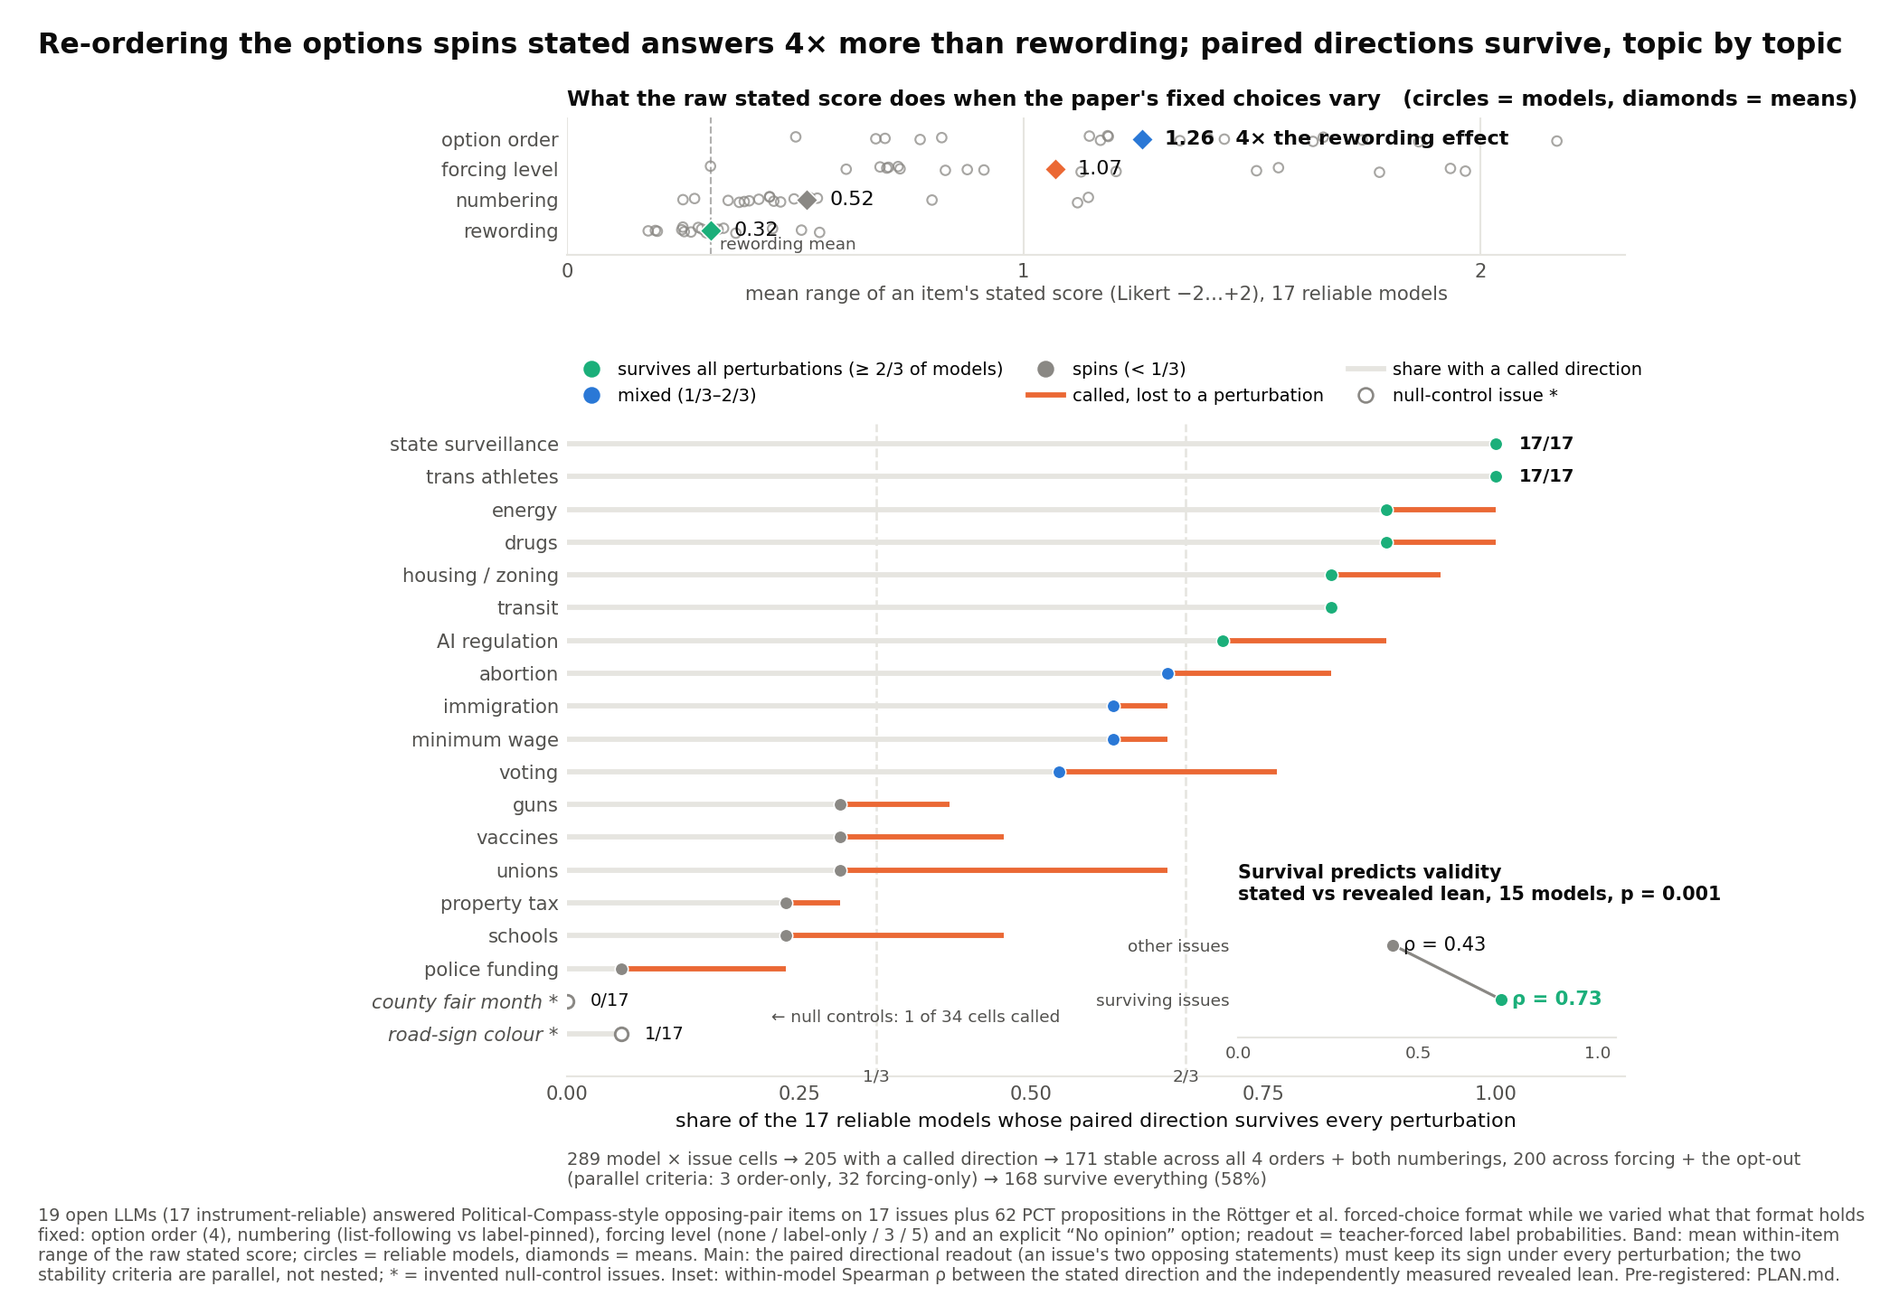
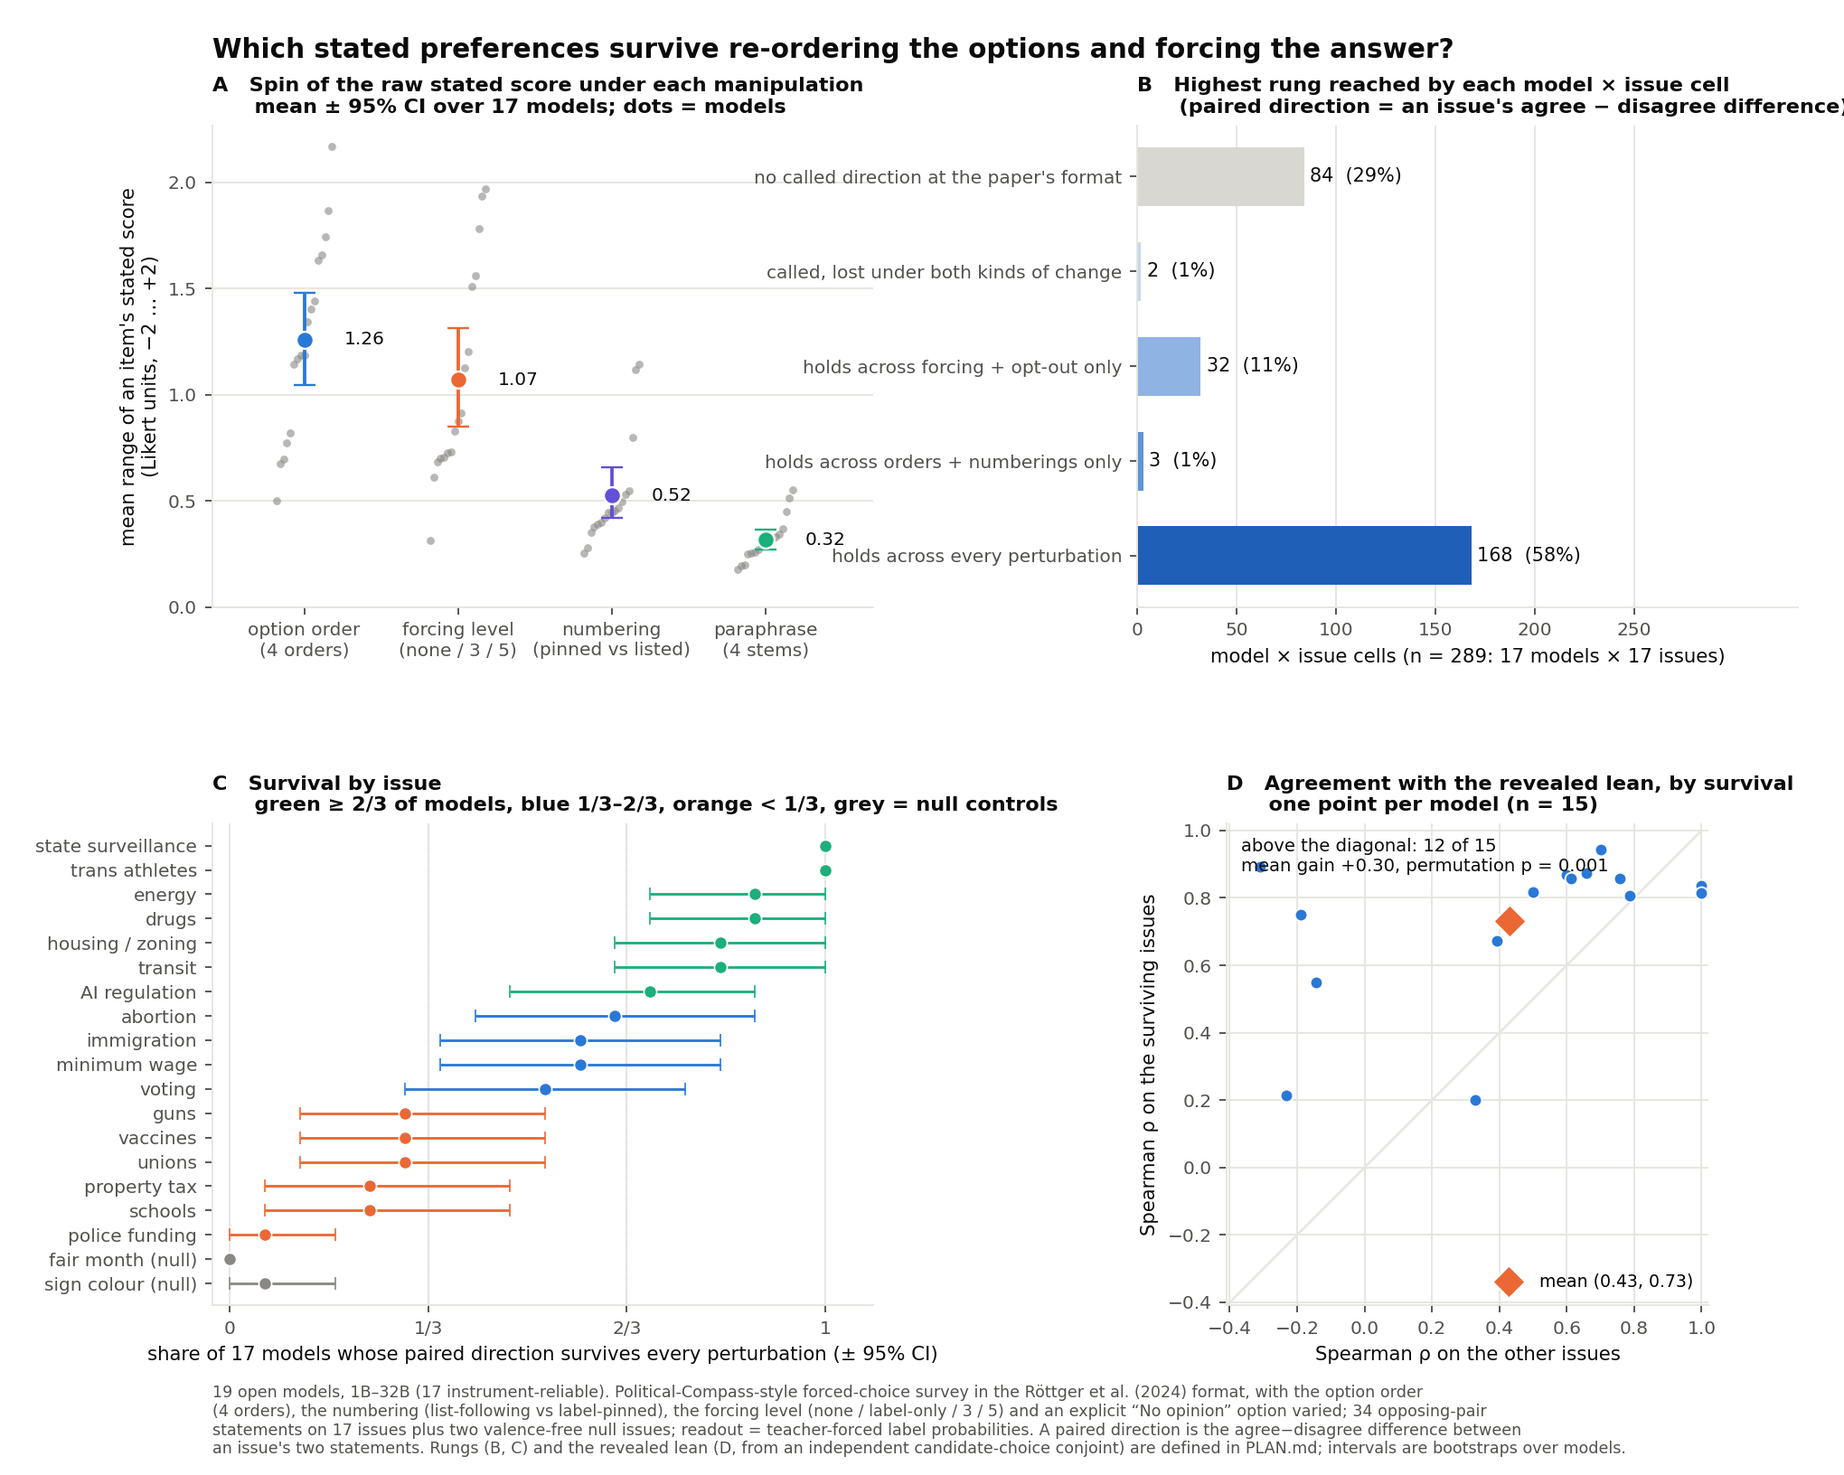
Summary figure: four equal standard panels with intervals

diff --git a/scripts/plot_orderforce.py b/scripts/plot_orderforce.py
@@ -1,9 +1,9 @@
-"""Summary figure for the order/forcing experiment (PLAN.md): a survival ledger.
+"""Summary figure for the order/forcing experiment (PLAN.md): four equal panels, one result each.
 
-Band A: how far each manipulation moves an item's raw stated score (per-model circles, mean diamonds).
-Main panel B: per issue, the share of reliable models whose paired direction is called (grey track), lost to a
-perturbation (orange) and survives everything (dot, coloured by class); null-control issues as open circles.
-Inset C: within-model Spearman rho between the stated direction and the revealed lean, surviving vs other issues.
+A  Spin budget: mean range of an item's raw stated score under each manipulation, 95% CI over models (bootstrap).
+B  Ladder: the model x issue cells partitioned by the highest rung reached (stacked bar, counts and shares).
+C  Per-issue survival: share of reliable models whose paired direction survives every perturbation, 95% CI over models.
+D  Validity: per model, Spearman rho between stated direction and revealed lean on surviving vs other issues.
 Reads results/orderforce.json (standalone) or experiments/pct/analysis/orderforce.json (parent repo).
 Usage: python3 scripts/plot_orderforce.py
 """
@@ -15,111 +15,115 @@ import numpy as np
 import matplotlib
 matplotlib.use("Agg")
 import matplotlib.pyplot as plt
-from matplotlib.lines import Line2D
+from matplotlib.patches import Patch
 
 ROOT = Path(__file__).resolve().parent.parent
 SRC = ROOT / "results" / "orderforce.json" if (ROOT / "results" / "orderforce.json").exists() else ROOT / "experiments" / "pct" / "analysis" / "orderforce.json"
 OUT = ROOT / "results" / "orderforce_figure.png" if (ROOT / "results").exists() else ROOT / "experiments" / "orderforce_figure.png"
 INK, MUTED, GRID, SURF = "#0b0b0b", "#52514e", "#e6e5e0", "#ffffff"
-BLUE, ORANGE, GREEN, GREY = "#2a78d6", "#eb6834", "#1baf7a", "#8a8884"
-CLASS_COL = {"hard survivor": GREEN, "mixed": BLUE, "spinner": GREY}
+BLUE, ORANGE, GREEN, GREY, PURPLE = "#2a78d6", "#eb6834", "#1baf7a", "#8a8884", "#6250d6"
 LAB = {"state_surveillance": "state surveillance", "trans_sports": "trans athletes", "housing_zoning": "housing / zoning", "agi_limitations": "AI regulation", "minimum_wage": "minimum wage",
-       "police_funding": "police funding", "property_tax": "property tax", "fair_month": "county fair month *", "sign_color": "road-sign colour *"}
+       "police_funding": "police funding", "property_tax": "property tax", "fair_month": "fair month (null)", "sign_color": "sign colour (null)"}
+NULL = ["fair_month", "sign_color"]
+
+
+def boot_ci(vals, reps=4000, seed=3):
+    rng = np.random.default_rng(seed)
+    v = np.asarray(vals, dtype=float)
+    b = np.sort([rng.choice(v, len(v)).mean() for _ in range(reps)])
+    return v.mean(), b[int(0.025 * reps)], b[int(0.975 * reps) - 1]
+
+
+def style(ax):
+    for s in ("top", "right"):
+        ax.spines[s].set_visible(False)
+    for s in ("left", "bottom"):
+        ax.spines[s].set_color(GRID)
+    ax.tick_params(colors=MUTED, labelsize=8.5)
 
 
 def main():
     R = json.loads(SRC.read_text())
     models = R["models"]; rel = sorted(t for t in models if not models[t]["instrument_unreliable"])
-    AT, P, J = R["axis_table"], R["predictions"], R["join"]
-    NULL = ["fair_month", "sign_color"]; POL = [a for a in AT if a not in NULL]
-    counts = {k: 0 for k in ("called", "+order", "+forcing", "survives all", "refusal-gated", "not called", "saturated")}
+    AT, P = R["axis_table"], R["predictions"]
+    POL = [a for a in AT if a not in NULL]
+    a6 = P["A6_permutation"]
+    fig, axs = plt.subplots(2, 2, figsize=(12.0, 9.6), facecolor=SURF)
+    fig.subplots_adjust(left=0.115, right=0.975, top=0.915, bottom=0.115, wspace=0.40, hspace=0.45)
+    # ---- A spin budget
+    ax = axs[0][0]
+    keys = [("order_F3", "option order\n(4 orders)", BLUE), ("forcing", "forcing level\n(none / 3 / 5)", ORANGE), ("numbering", "numbering\n(pinned vs listed)", PURPLE), ("paraphrase_4", "paraphrase\n(4 stems)", GREEN)]
+    for i, (k, lab, col) in enumerate(keys):
+        vals = [models[t]["spin"][k] for t in rel if models[t]["spin"].get(k) is not None]
+        m, lo, hi = boot_ci(vals)
+        ax.scatter([i + x for x in np.linspace(-0.18, 0.18, len(vals))], sorted(vals), s=14, color=GREY, alpha=0.6, lw=0, zorder=2)
+        ax.errorbar([i], [m], yerr=[[m - lo], [hi - m]], fmt="o", color=col, ms=8, capsize=5, lw=1.6, mec=SURF, mew=1, zorder=4)
+        ax.text(i + 0.26, m, f"{m:.2f}", va="center", fontsize=8.5, color=INK)
+    ax.set_xticks(range(len(keys))); ax.set_xticklabels([k[1] for k in keys], fontsize=8.5)
+    ax.set_xlim(-0.6, len(keys) - 0.3); ax.set_ylim(0, None)
+    ax.set_ylabel("mean range of an item's stated score\n(Likert units, −2 … +2)", fontsize=9, color=INK)
+    ax.set_title(f"A   Spin of the raw stated score under each manipulation\n      mean ± 95% CI over {len(rel)} models; dots = models", fontsize=9.5, loc="left", fontweight="bold", color=INK)
+    ax.yaxis.grid(True, color=GRID); ax.set_axisbelow(True)
+    # ---- B ladder partition
+    ax = axs[0][1]
+    counts = {k: 0 for k in ("not called", "refusal-gated", "called", "+order", "+forcing", "survives all", "saturated")}
     for t in rel:
         for a in POL:
             r = models[t]["axes"].get(a, {}).get("rung")
             if r:
                 counts[r] += 1
-    n_cells = sum(counts.values()); called = counts["called"] + counts["+order"] + counts["+forcing"] + counts["survives all"]
-    n_order, n_forc, n_all = counts["+order"] + counts["survives all"], counts["+forcing"] + counts["survives all"], counts["survives all"]
-    plt.rcParams["font.family"] = "DejaVu Sans"
-    fig = plt.figure(figsize=(11.0, 7.6), facecolor=SURF)
-    # ---------------- band A
-    axA = fig.add_axes([0.30, 0.805, 0.56, 0.105])
-    rows = [("order_F3", "option order", BLUE), ("forcing", "forcing level", ORANGE), ("numbering", "numbering", GREY), ("paraphrase_4", "rewording", GREEN)]
-    jit = np.linspace(-0.10, 0.10, len(rel))
-    means = {}
-    for i, (k, lab, col) in enumerate(rows):
-        y = len(rows) - 1 - i
-        vals = [models[t]["spin"].get(k) for t in rel]
-        vals = [v for v in vals if v is not None]
-        axA.scatter(vals, [y + j for j in jit[:len(vals)]], s=16, facecolors="none", edgecolors=GREY, lw=0.8, alpha=0.75, zorder=2)
-        m = st.mean(vals); means[k] = m
-        axA.scatter([m], [y], marker="D", s=42, color=col, zorder=4, ec=SURF, lw=0.6)
-        axA.text(m + 0.05, y, f"{m:.2f}" + ("   %.0f× the rewording effect" % (m / means.get("paraphrase_4", m)) if k == "order_F3" and "paraphrase_4" in means else ""), va="center", fontsize=8.5, color=INK, fontweight="bold" if k == "order_F3" else "normal")
-    # order row is drawn first; recompute its multiplier label after the rewording mean is known
-    axA.texts[0].set_text(f"{means['order_F3']:.2f}   {means['order_F3'] / means['paraphrase_4']:.0f}× the rewording effect")
-    axA.axvline(means["paraphrase_4"], color=MUTED, lw=0.8, ls="--", alpha=0.45, zorder=1)
-    axA.text(means["paraphrase_4"] + 0.02, -0.5, "rewording mean", fontsize=7.0, color=MUTED, ha="left", va="center")
-    axA.set_yticks(range(len(rows))); axA.set_yticklabels([r[1] for r in reversed(rows)], fontsize=8.5, color=MUTED)
-    axA.set_xlim(0, max(2.0, max(models[t]["spin"]["order_F3"] for t in rel) + 0.15)); axA.set_ylim(-0.8, len(rows) - 0.3)
-    axA.set_xticks([0, 1, 2]); axA.tick_params(colors=MUTED, labelsize=8, length=0)
-    axA.xaxis.grid(True, color=GRID, lw=0.8); axA.set_axisbelow(True)
-    axA.set_xlabel(f"mean range of an item's stated score (Likert −2…+2), {len(rel)} reliable models", fontsize=8, color=MUTED, labelpad=2)
-    axA.set_title("What the raw stated score does when the paper's fixed choices vary   (circles = models, diamonds = means)", fontsize=8.8, loc="left", fontweight="bold", color=INK, pad=5)
-    # ---------------- main panel B
-    axB = fig.add_axes([0.30, 0.175, 0.56, 0.50])
+    n = sum(counts.values())
+    parts = [("no called direction at the paper's format", counts["not called"] + counts["refusal-gated"] + counts["saturated"], "#d9d7d2"),
+             ("called, lost under both kinds of change", counts["called"], "#c9d7ee"), ("holds across forcing + opt-out only", counts["+forcing"], "#8fb3e3"),
+             ("holds across orders + numberings only", counts["+order"], "#5f94d6"), ("holds across every perturbation", counts["survives all"], "#1f5fb8")]
+    for i, (lab, c, col) in enumerate(parts):
+        ax.barh(i, c, 0.62, color=col)
+        ax.text(c + 3, i, f"{c}  ({100 * c / n:.0f}%)", va="center", fontsize=8.8, color=INK)
+    ax.set_yticks(range(len(parts))); ax.set_yticklabels([p[0] for p in parts], fontsize=8.5)
+    ax.invert_yaxis(); ax.set_xlim(0, n * 1.15); ax.set_xticks([0, 50, 100, 150, 200, 250])
+    ax.set_xlabel(f"model × issue cells (n = {n}: {len(rel)} models × 17 issues)", fontsize=9, color=INK)
+    ax.set_title("B   Highest rung reached by each model × issue cell\n      (paired direction = an issue's agree − disagree difference)", fontsize=9.5, loc="left", fontweight="bold", color=INK)
+    ax.xaxis.grid(True, color=GRID); ax.set_axisbelow(True)
+    # ---- C per-issue survival with CI over models
+    ax = axs[1][0]
     order = sorted(POL, key=lambda a: -(AT[a]["R3_frac"] or 0)) + NULL
-    for y, a in enumerate(reversed(order)):
-        r3, cf = AT[a]["R3_frac"] or 0.0, AT[a]["called_frac"] or 0.0
-        axB.plot([0, cf], [y, y], color=GRID, lw=2.2, solid_capstyle="butt", zorder=1)
-        if cf > r3:
-            axB.plot([r3, cf], [y, y], color=ORANGE, lw=2.2, solid_capstyle="butt", zorder=2)
-        if a in NULL:
-            axB.scatter([r3], [y], s=30, facecolors=SURF, edgecolors=GREY, lw=1.1, zorder=4)
-        else:
-            axB.scatter([r3], [y], s=30, color=CLASS_COL.get(AT[a]["class"], GREY), ec=SURF, lw=0.6, zorder=4)
-        if r3 >= 0.999 or a in NULL:
-            axB.text(max(cf, r3) + 0.025, y, f"{AT[a]['survives all']}/{AT[a]['n']}", va="center", fontsize=7.4, color=INK, fontweight="bold" if r3 >= 0.999 else "normal")
-    axB.set_yticks(range(len(order))); axB.set_yticklabels([LAB.get(a, a.replace("_", " ")) for a in reversed(order)], fontsize=8.3)
-    for lab, a in zip(axB.get_yticklabels(), reversed(order)):
-        if a in NULL:
-            lab.set_color(GREY); lab.set_style("italic")
-    for x in (1 / 3, 2 / 3):
-        axB.axvline(x, color=GRID, lw=1, ls="--", zorder=0)
-        axB.text(x, -1.05, "1/3" if x < 0.5 else "2/3", fontsize=7, color=MUTED, ha="center", va="top")
-    axB.set_xlim(0, 1.14); axB.set_ylim(-1.3, len(order) - 0.4)
-    axB.set_xticks([0, 0.25, 0.5, 0.75, 1]); axB.tick_params(colors=MUTED, labelsize=8, length=0)
-    axB.set_xlabel(f"share of the {len(rel)} reliable models whose paired direction survives every perturbation", fontsize=8.5, color=INK)
-    axB.text(0.22, 0.5, f"← null controls: {R['null_called']} of {2 * len(rel)} cells called", fontsize=7, color=MUTED, ha="left", va="center")
-    axB.text(0.0, -0.115, f"{n_cells} model × issue cells → {called} with a called direction → {n_order} stable across all 4 orders + both numberings, {n_forc} across forcing + the opt-out\n"
-             f"(parallel criteria: {n_order - n_all} order-only, {n_forc - n_all} forcing-only) → {n_all} survive everything ({100 * n_all / n_cells:.0f}%)",
-             transform=axB.transAxes, fontsize=7.4, color=MUTED, va="top")
-    # ---------------- inset C
-    axC = fig.add_axes([0.655, 0.205, 0.20, 0.10])
-    a6 = P["A6_permutation"]
-    ms, mr = a6["mean_rho_surviving"], a6["mean_rho_rest"]
-    axC.set_facecolor(SURF)
-    axC.plot([mr, ms], [1, 0], color=GREY, lw=1.2, zorder=1)
-    axC.scatter([ms], [0], s=30, color=GREEN, zorder=3, ec=SURF, lw=0.5); axC.scatter([mr], [1], s=30, color=GREY, zorder=3, ec=SURF, lw=0.5)
-    axC.text(ms + 0.03, 0, f"ρ = {ms:.2f}", va="center", fontsize=8, color=GREEN, fontweight="bold"); axC.text(mr + 0.03, 1, f"ρ = {mr:.2f}", va="center", fontsize=8, color=INK)
-    axC.set_yticks([0, 1]); axC.set_yticklabels(["surviving issues", "other issues"], fontsize=7.5, color=MUTED)
-    axC.set_xlim(0, 1.05); axC.set_ylim(-0.7, 1.7); axC.set_xticks([0, 0.5, 1]); axC.tick_params(colors=MUTED, labelsize=7, length=0)
-    axC.set_title(f"Survival predicts validity\nstated vs revealed lean, {a6['models']} models, p = {a6['p_one_sided']:.3f}", fontsize=7.8, fontweight="bold", color=INK, loc="left", pad=3)
-    for a_ in (axA, axB, axC):
-        for s_ in ("top", "right", "left"):
-            a_.spines[s_].set_visible(False)
-        a_.spines["bottom"].set_color(GRID)
-    # ---------------- legend, title, caption
-    handles = [Line2D([], [], marker="o", color=GREEN, lw=0, ms=6, label="survives all perturbations (≥ 2/3 of models)"), Line2D([], [], marker="o", color=BLUE, lw=0, ms=6, label="mixed (1/3–2/3)"),
-               Line2D([], [], marker="o", color=GREY, lw=0, ms=6, label="spins (< 1/3)"), Line2D([], [], color=ORANGE, lw=2.2, label="called, lost to a perturbation"),
-               Line2D([], [], color=GRID, lw=2.2, label="share with a called direction"), Line2D([], [], marker="o", mfc=SURF, mec=GREY, color=SURF, lw=0, ms=6, label="null-control issue *")]
-    fig.legend(handles=handles, loc="upper left", bbox_to_anchor=(0.295, 0.735), ncol=3, frameon=False, fontsize=7.4, handletextpad=0.5, columnspacing=1.4)
-    fig.text(0.02, 0.965, f"Re-ordering the options spins stated answers {means['order_F3'] / means['paraphrase_4']:.0f}× more than rewording; paired directions survive, topic by topic", fontsize=12, fontweight="bold", color=INK, va="center")
-    fig.text(0.02, 0.075, f"{len(models)} open LLMs ({len(rel)} instrument-reliable) answered Political-Compass-style opposing-pair items on 17 issues plus 62 PCT propositions in the Röttger et al. forced-choice format while we varied what that format holds\n"
-             "fixed: option order (4), numbering (list-following vs label-pinned), forcing level (none / label-only / 3 / 5) and an explicit “No opinion” option; readout = teacher-forced label probabilities. Band: mean within-item\n"
-             "range of the raw stated score; circles = reliable models, diamonds = means. Main: the paired directional readout (an issue's two opposing statements) must keep its sign under every perturbation; the two\n"
-             "stability criteria are parallel, not nested; * = invented null-control issues. Inset: within-model Spearman ρ between the stated direction and the independently measured revealed lean. Pre-registered: PLAN.md.",
-             fontsize=7.2, color=MUTED, va="top")
-    fig.savefig(OUT, dpi=190, facecolor=SURF)
+    for y, a in enumerate(order):
+        surv = [1.0 if models[t]["axes"].get(a, {}).get("rung") == "survives all" else 0.0 for t in rel if a in models[t]["axes"]]
+        m, lo, hi = boot_ci(surv)
+        col = GREY if a in NULL else GREEN if AT[a]["class"] == "hard survivor" else BLUE if AT[a]["class"] == "mixed" else ORANGE
+        ax.errorbar([m], [y], xerr=[[m - lo], [hi - m]], fmt="o", color=col, ms=6, capsize=3, lw=1.2, mec=SURF, mew=0.7, zorder=3)
+    ax.set_yticks(range(len(order))); ax.set_yticklabels([LAB.get(a, a.replace("_", " ")) for a in order], fontsize=8.5)
+    ax.invert_yaxis()
+    for x, lab in ((1 / 3, "1/3"), (2 / 3, "2/3")):
+        ax.axvline(x, color=GRID, lw=1, ls="--", zorder=0)
+    ax.set_xlim(-0.03, 1.08); ax.set_xticks([0, 1 / 3, 2 / 3, 1]); ax.set_xticklabels(["0", "1/3", "2/3", "1"])
+    ax.set_xlabel(f"share of {len(rel)} models whose paired direction survives every perturbation (± 95% CI)", fontsize=9, color=INK)
+    ax.set_title("C   Survival by issue\n      green ≥ 2/3 of models, blue 1/3–2/3, orange < 1/3, grey = null controls", fontsize=9.5, loc="left", fontweight="bold", color=INK)
+    ax.xaxis.grid(True, color=GRID); ax.set_axisbelow(True)
+    # ---- D validity scatter
+    ax = axs[1][1]
+    J = R["join"]
+    pts = [(j["rho_rest"], j["rho_surviving"], t) for t, j in J.items() if t in rel and j["rho_surviving"] is not None and j["rho_rest"] is not None and j["n_surviving"] >= 3 and j["n"] - j["n_surviving"] >= 3]
+    ax.plot([-1, 1], [-1, 1], color=GRID, lw=1, zorder=0)
+    ax.scatter([p[0] for p in pts], [p[1] for p in pts], s=34, color=BLUE, ec=SURF, lw=0.8, zorder=3)
+    ax.scatter([a6["mean_rho_rest"]], [a6["mean_rho_surviving"]], s=120, marker="D", color=ORANGE, ec=SURF, lw=1, zorder=4, label=f"mean ({a6['mean_rho_rest']:.2f}, {a6['mean_rho_surviving']:.2f})")
+    lo_, hi_ = min(min(p[0] for p in pts), min(p[1] for p in pts)) - 0.1, 1.02
+    ax.set_xlim(lo_, hi_); ax.set_ylim(lo_, hi_); ax.set_aspect("equal")
+    ax.set_xlabel("Spearman ρ on the other issues", fontsize=9, color=INK); ax.set_ylabel("Spearman ρ on the surviving issues", fontsize=9, color=INK)
+    ax.set_title(f"D   Agreement with the revealed lean, by survival\n      one point per model (n = {len(pts)})", fontsize=9.5, loc="left", fontweight="bold", color=INK)
+    ax.text(0.03, 0.97, f"above the diagonal: {sum(p[1] > p[0] for p in pts)} of {len(pts)}\nmean gain {a6['mean_gain_rho']:+.2f}, permutation p = {a6['p_one_sided']:.3f}", transform=ax.transAxes, fontsize=8.3, color=INK, va="top")
+    ax.legend(frameon=False, fontsize=8, loc="lower right")
+    ax.xaxis.grid(True, color=GRID); ax.yaxis.grid(True, color=GRID); ax.set_axisbelow(True)
+    for row in axs:
+        for a_ in row:
+            style(a_)
+    fig.suptitle("Which stated preferences survive re-ordering the options and forcing the answer?", fontsize=12.5, x=0.115, y=0.975, ha="left", fontweight="bold", color=INK)
+    fig.text(0.115, 0.012, f"{len(models)} open models, 1B–32B ({len(rel)} instrument-reliable). Political-Compass-style forced-choice survey in the Röttger et al. (2024) format, with the option order\n"
+             "(4 orders), the numbering (list-following vs label-pinned), the forcing level (none / label-only / 3 / 5) and an explicit “No opinion” option varied; 34 opposing-pair\n"
+             "statements on 17 issues plus two valence-free null issues; readout = teacher-forced label probabilities. A paired direction is the agree−disagree difference between\n"
+             "an issue's two statements. Rungs (B, C) and the revealed lean (D, from an independent candidate-choice conjoint) are defined in PLAN.md; intervals are bootstraps over models.",
+             fontsize=7.4, color=MUTED, va="bottom")
+    fig.savefig(OUT, dpi=170, facecolor=SURF)
     print("wrote", OUT)
 
 
